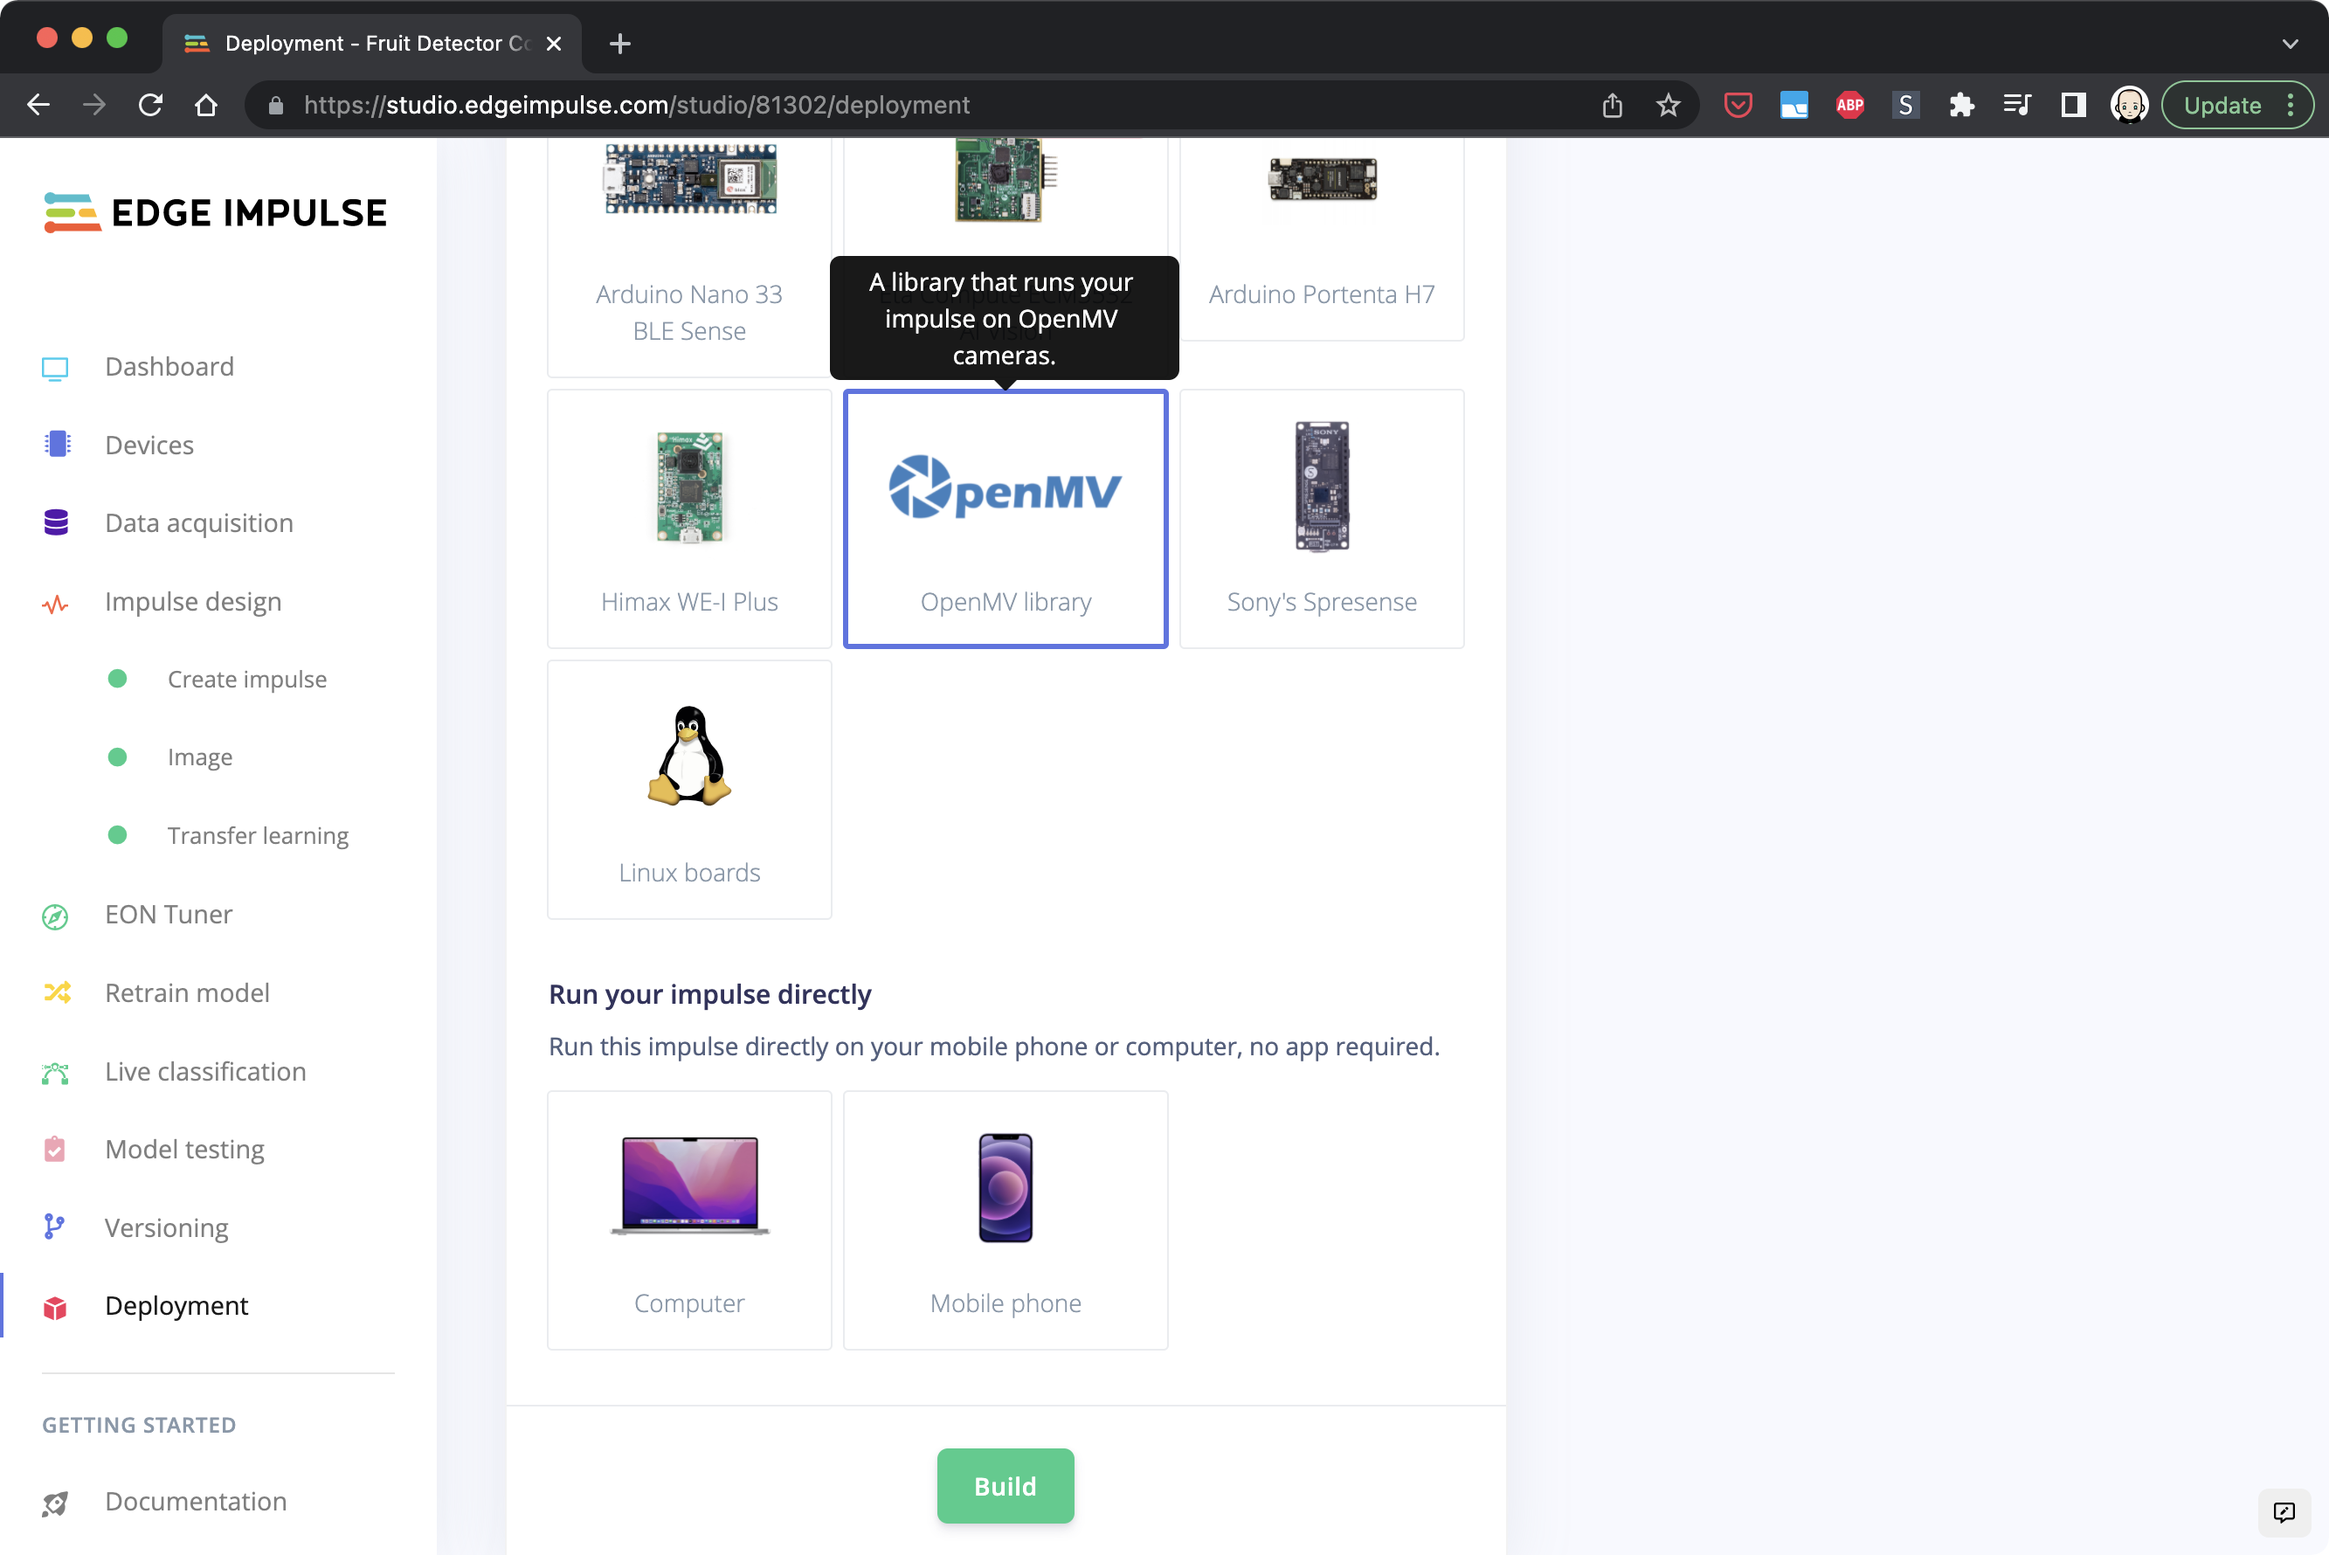
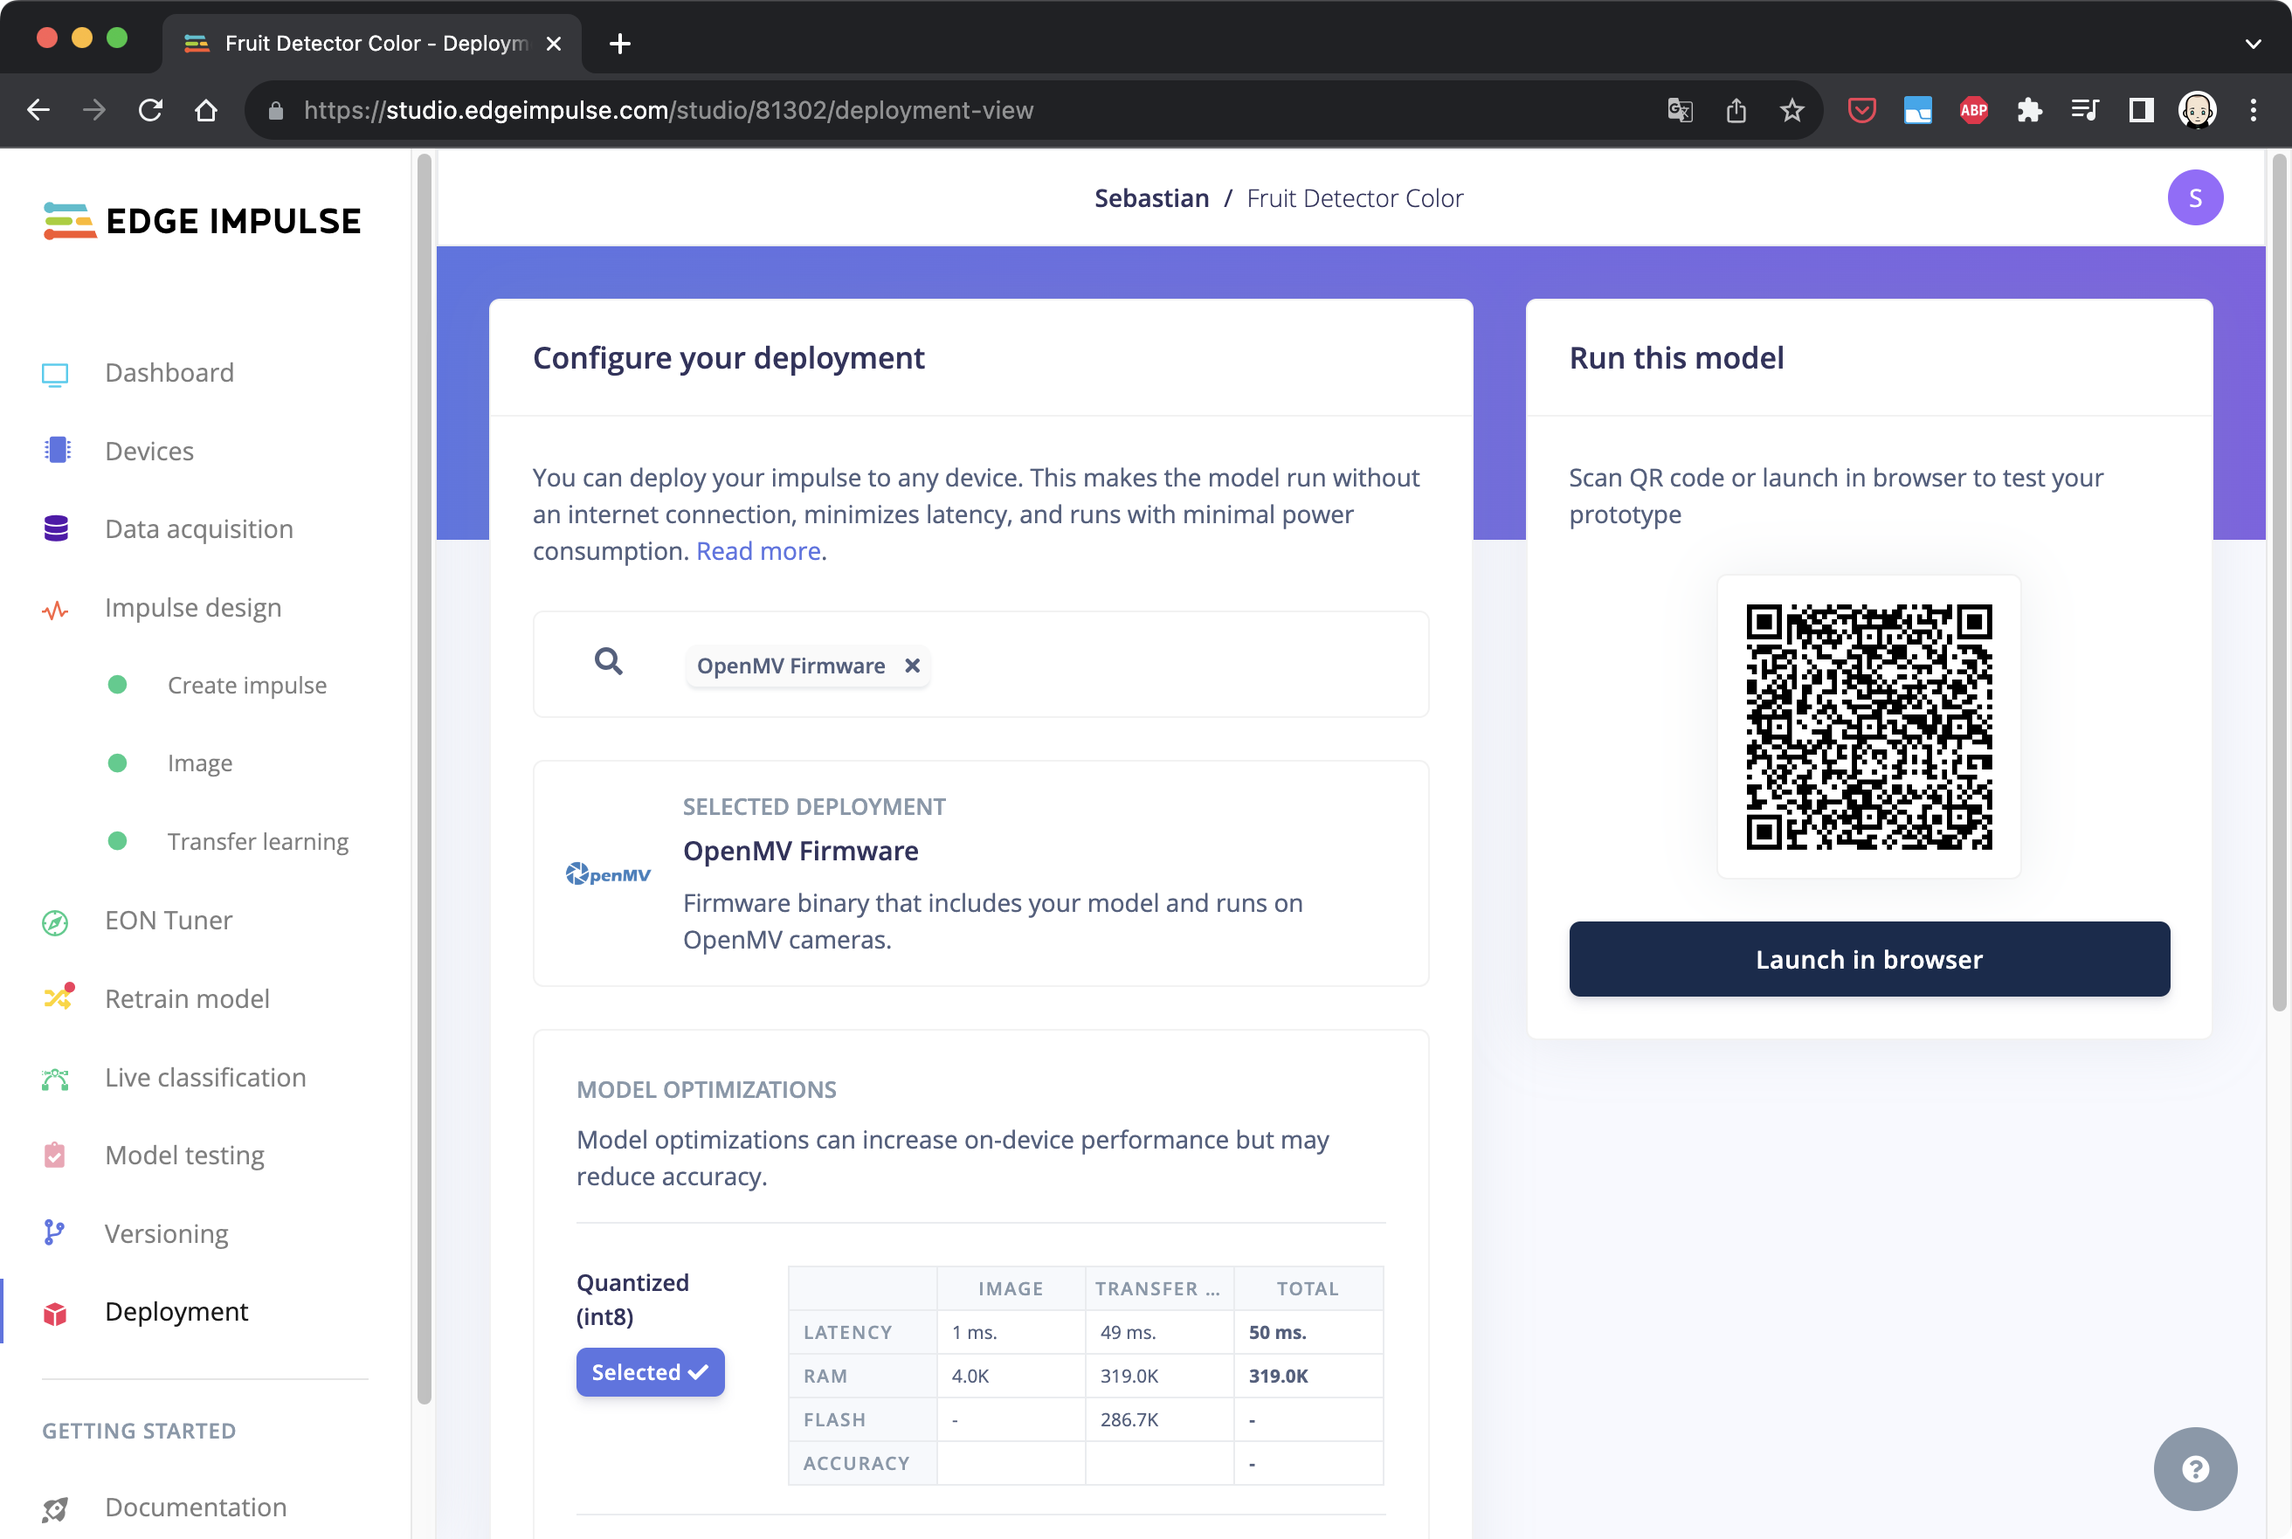
Update tutorial to reflect latest version of EI studio

diff --git a/content/hardware/06.nicla/boards/nicla-vision/tutorials/image-classification/content.md b/content/hardware/06.nicla/boards/nicla-vision/tutorials/image-classification/content.md
@@ -143,33 +143,18 @@ The ML model is trained and already optimized to be used with microcontrollers. 
 
 ### Deploy
 
-Deploying the ML model to your board requires a few steps. The Edge Impulse® Studio provides an export feature for OpenMV. Switch to the deployment section in the menu, select OpenMV under "Build firmware" and click "build". This will create an OpenMV compatible library and download it as a zip file. Unzip it.
+Deploying the ML model to your board requires a few simple steps. The Edge Impulse® Studio provides an export feature for OpenMV. Since the Nicla Vision doesn't have any on-board SRAM we need to bake the machine learning model into the firmware and load it from the flash. Switch to the deployment section in the menu, select "OpenMV Firmware" under "Configure your deployment" and click "build". This will create an OpenMV compatible firmware that includes the machine learning model. Unzip the file once it's downloaded. The download should start automatically.
 
 ![The Edge Impulse® Studio has a built-in export function for OpenMV](assets/deployment.png)
 
-Since the Nicla Vision doesn't have any on-board SRAM we need to build the machine learning model into the firmware and load it from the flash. To do so, go to https://github.com/openmv/openmv and [fork](https://docs.github.com/en/get-started/quickstart/fork-a-repo) the repository. In your fork click on "Actions" and enable the workflows by clicking on the green button.
 
-Rename the machine learning model and the label file to fruit_detection.tflite and fruit_detection.txt respectively. In your fork, replace the built-in machine learning model under `src/lib/libtf/models` with the model you downloaded from Edge Impulse® Studio. Commit the files and push the commit to the repository. It will build a new firmware automatically.
-
-![The model that shall be baked into the firmware needs to be stored under src/lib/libtf/models](assets/github_model_path.png)
-
-You can inspect the build process under "Actions".
-
-![In the actions section you can monitor the build process once it starts.](assets/github_actions.png)
-
-Once the firmware has been built you can download it from the releases section that you can find in the "Code" tab. Put the board in bootloader mode and click on the connect symbol in the OpenMV IDE. In the dialog select "Load a specific firmware". Select `firmware.bin` in the folder that you just created and flash it to the board.
-
-![In the release section you can find the generated firmware ready to download and install.](assets/github_releases.png)
+Put the board in bootloader mode and click on the connect symbol in the OpenMV IDE. In the dialog select "Load a specific firmware". Select `edge_impulse_firmware_arduino_nicla_vision.bin` in the folder that you created while unziping the downloaded file and flash it to the board.
 
 ### Run the Script
 
-The final step is to run the **ei_image_classification.py** script. Open it in the OpenMV. As the model is now baked into the firmware you need to adjust the lines where it loads the model and the labels as follows:
+The final step is to run the **ei_image_classification.py** script. Open it in the OpenMV IDE.
 
-```python
-labels, net = tf.load_builtin_model('fruit_detection')
-```
-
-Also, replace the print statement in the innermost for loop with the following code:
+Replace the print statement in the innermost for loop with the following code:
 
 ```python
 confidence = predictions_list[i][1]
@@ -199,7 +184,7 @@ sensor.set_hmirror(True)
 sensor.set_windowing((240, 240))       # Set 240x240 window.
 sensor.skip_frames(time=2000)          # Let the camera adjust.
 
-labels, net = tf.load_builtin_model('fruit_detection')
+labels, net = tf.load_builtin_model('trained')
 
 clock = time.clock()
 while(True):
@@ -231,6 +216,4 @@ You have learned about classification as a machine learning concept which catego
 
 ## Troubleshooting
 
-### GitHub Workflow
-
-If you’re encountering difficulties while using the GitHub workflow in your forked repository, make sure that you chose `MobileNetV2 96x96 0.1` as model type, otherwise the model will likely be too big. Also make sure you are changing the files in your own, forked repository and not in the original OpenMV repository.
+If you’re encountering difficulties while deploying your machine learning model, make sure that you chose `MobileNetV2 96x96 0.1` as model type, otherwise the model will likely be too big.
